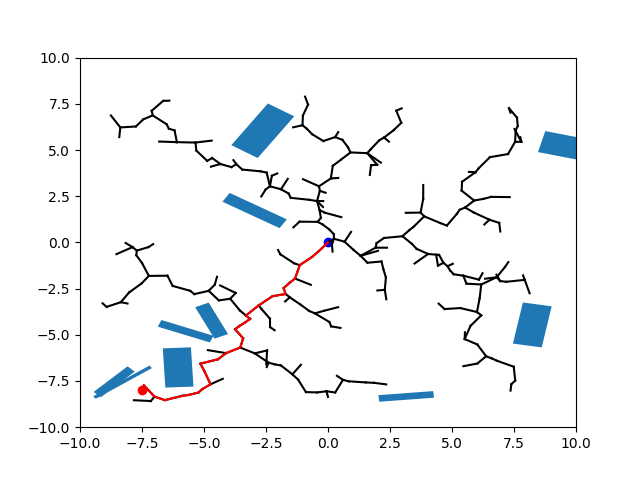
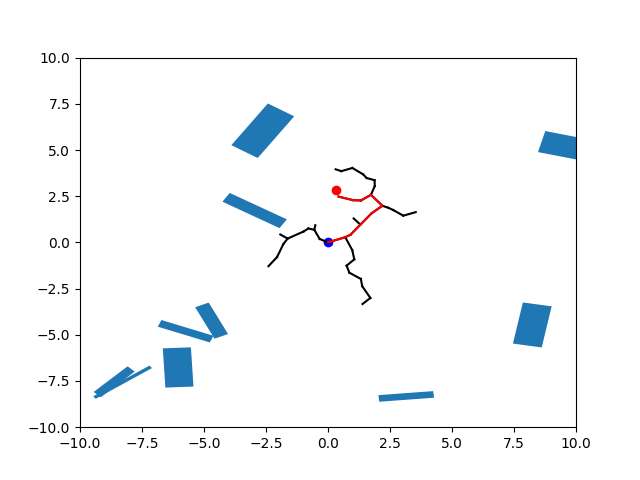
random goal by default added

diff --git a/RRTApp/RRT.py b/RRTApp/RRT.py
@@ -211,18 +211,26 @@ def visualizeTree(rootNode, goalPose=None, pathNodeList=None, obstaclesData=None
     plt.xlim(-arenaSize[0] / 2, arenaSize[0] / 2)
     plt.ylim(-arenaSize[0] / 2, arenaSize[0] / 2)
 
-def runRRT(start=(0.0, 0.0), goal=(-7.5, -8.0), stepLength=0.5, goalBiasFactor=5, arenaSize=(20, 20)):
-    rrtHandle = RRT(startPose=start, goalPose=goal, stepLength=stepLength, arenaSize=arenaSize, goalBiasFactor=goalBiasFactor)
-    ogHandle = OccupancyGrid(arenaSize=arenaSize, customFilePath="RRTApp/data/obstacle.data")
+def runRRT(start=(0.0, 0.0), goal=None, stepLength=0.5, goalBiasFactor=5, arenaSize=(20, 20)):
+    
+    if goal is None:
+        gx = (np.random.rand()*(arenaSize[0])) - (arenaSize[0]/2.0)
+        gy = (np.random.rand()*(arenaSize[1])) - (arenaSize[1]/2.0)
+        goal = (gx, gy)
 
-    rrtHandle.setOccupancyGrid(ogHandle)
-    rrtHandle.generateRRT(visualizeFlag=False)
-    path = rrtHandle.getPath()
+    try:
+        rrtHandle = RRT(startPose=start, goalPose=goal, stepLength=stepLength, arenaSize=arenaSize, goalBiasFactor=goalBiasFactor)
+        ogHandle = OccupancyGrid(arenaSize=arenaSize, customFilePath="RRTApp/data/obstacle.data")
 
-    print('Node count in RRT:', len(rrtHandle.nodeList))
-    visualizeTree(rrtHandle.root, goal, path, ogHandle.obstaclesData, arenaSize)
-    plt.savefig("RRTApp/static/rrt.png")
+        rrtHandle.setOccupancyGrid(ogHandle)
+        rrtHandle.generateRRT(visualizeFlag=False)
+        path = rrtHandle.getPath()
 
+        print('Node count in RRT:', len(rrtHandle.nodeList))
+        visualizeTree(rrtHandle.root, goal, path, ogHandle.obstaclesData, arenaSize)
+        plt.savefig("RRTApp/static/rrt.png")
+    except:
+        print("Path not found")
 
 if __name__ == '__main__':
     runRRT()
